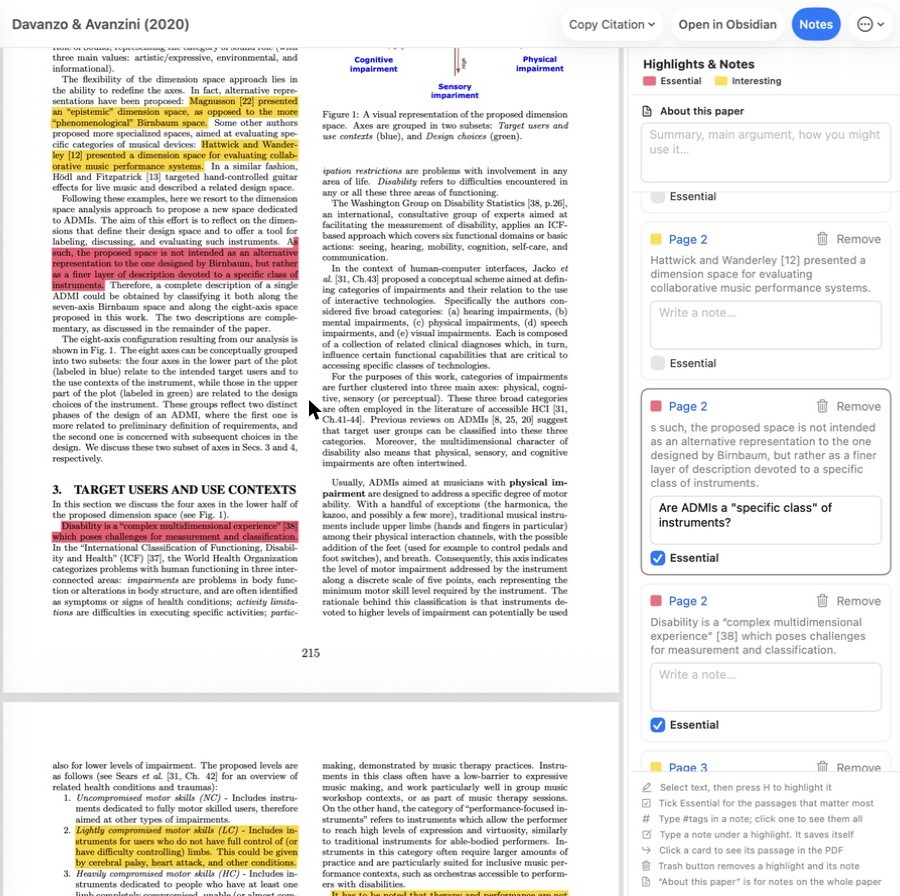
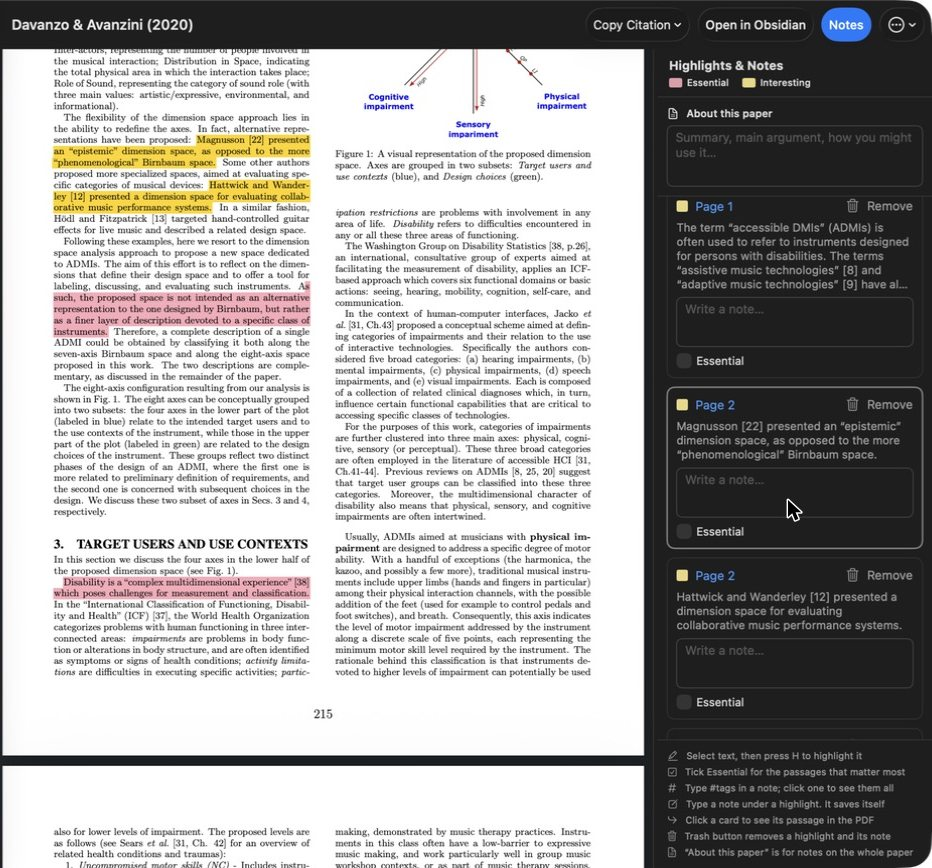
Guide: retake the highlights picture with the current colours

diff --git a/GUIDE.md b/GUIDE.md
@@ -18,7 +18,7 @@ What PDF Search does, step by step. (To install it, see the [TL;DR in the README
 
 ## 2. Highlight and write notes in the margin
 
-![A PDF with red Essential and yellow Interesting highlights; on the right, the Highlights & Notes column with a note card for each highlight](docs/guide/02-read-notes.jpg)
+![A PDF with pink Essential and yellow Interesting highlights; on the right, the Highlights & Notes column with a note card for each highlight](docs/guide/02-read-notes.jpg)
 
 - **Select a passage and press H.** It turns **yellow** (Interesting), and a note card opens in the column on the right. Type your thought; it saves itself.
 - **Tick ☐ Essential** on a card for the few passages that matter most. They turn **pink**.
